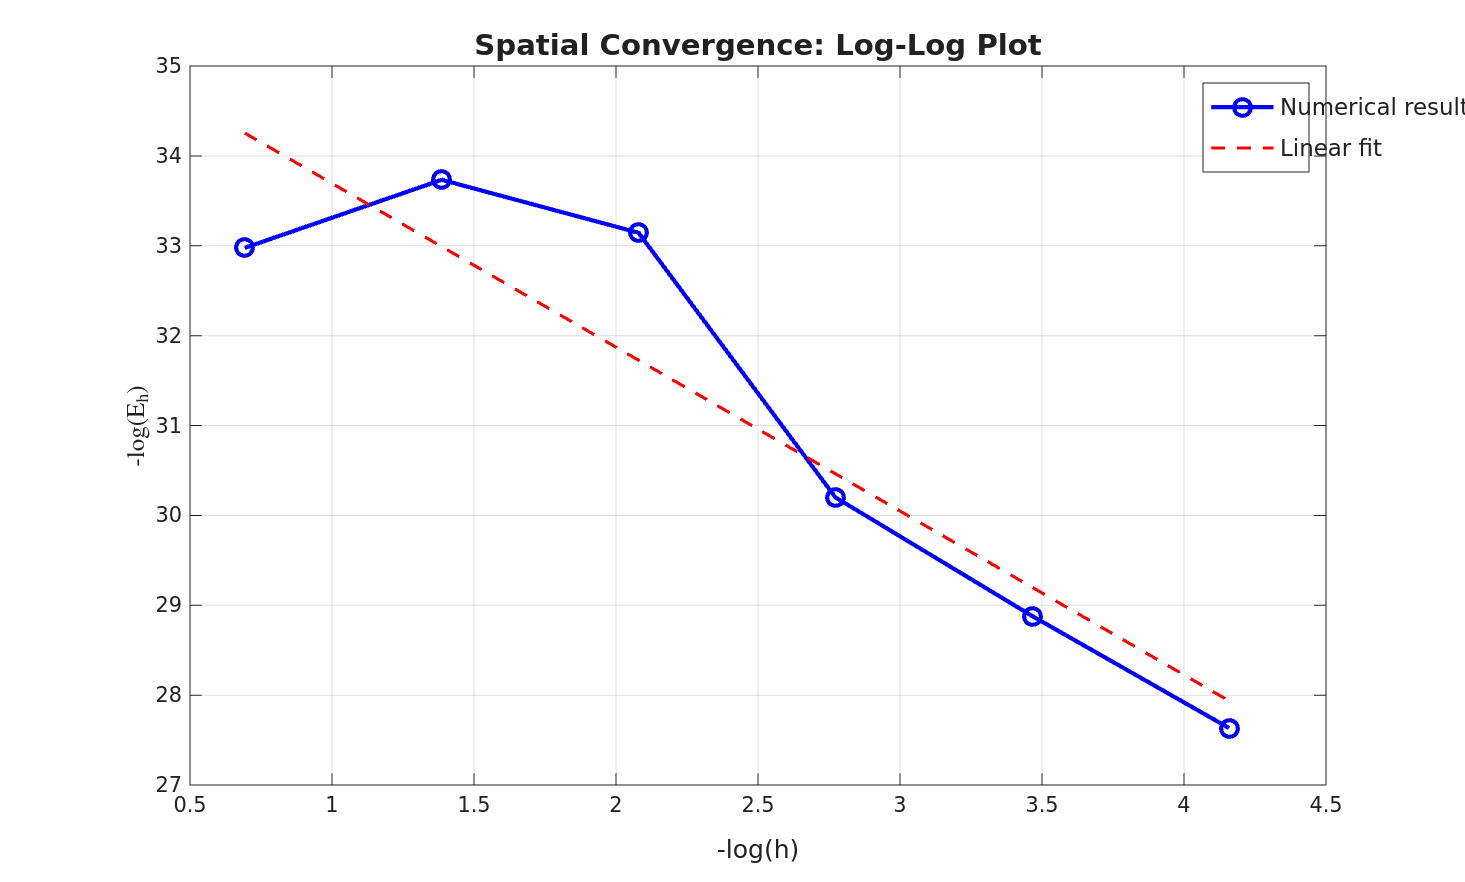
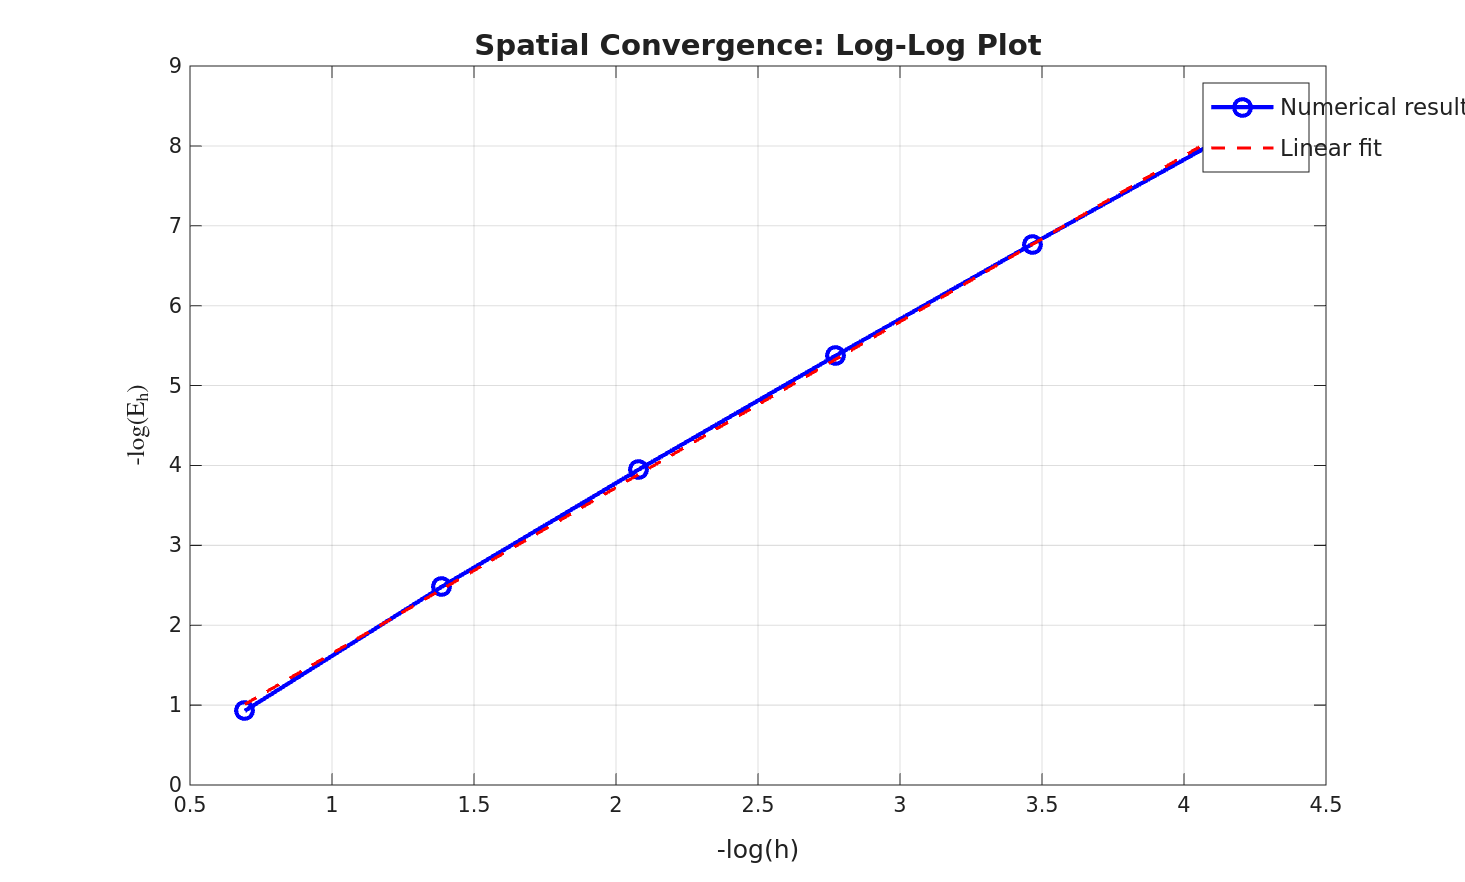
hat_function plotted is now a function

diff --git a/Project/Project.m b/Project/Project.m
@@ -55,8 +55,8 @@ function [X_grid, T, U_final, U_history] = FiniteElementMethod(varargin)
         % --- Neumann BCs: add boundary fluxes to RHS ---
         B = zeros(Nx, 1);
         h = X_grid(2) - X_grid(1);
-        B(1) = -a_func(0) * g_left(t_n);     % Left boundary
-        B(Nx) = a_func(L) * g_right(t_n);    % Right boundary
+        B(1) = -a_func(0) * g_left(t_n);      % Left boundary (outward normal is -x)
+        B(Nx) = a_func(L)  * g_right(t_n);   % Right boundary (outward normal is +x)
         % BC Interpretation:
         % g_left:  Heat flux at x=0. Positive value means heat leaves domain at left.
         % g_right: Heat flux at x=L. Positive value means heat leaves domain at right.
@@ -127,19 +127,24 @@ function phi = hat_function(X_grid, k)
         phi(idx2) = (xk_next - X_grid(idx2)) / h;
     end
 end
-% Plotting some hat functions for visualization
-figure;
-hold on;
-for k = 1:length(X_grid)
-    phi_k = hat_function(X_grid, k);
-    plot(X_grid, phi_k + (k-1)*0.5, 'LineWidth', 1.5); % Shift up for visibility
+
+%% Plot Hat Functions
+function plot_hat_functions(X_grid)
+    % Plotting some hat functions for visualization
+    figure;
+    hold on;
+    for k = 1:10:length(X_grid)
+        phi_k = hat_function(X_grid, k);
+        plot(X_grid, phi_k, 'LineWidth', 1.5);
+    end
+    xlabel('x');
+    ylabel('Hat Functions');
+    title('Plotting (Some) Hat Functions');
+    grid on;
+    saveas(gcf, fullfile('Project', 'hat_functions.png'));
+    close;
 end
-xlabel('x');
-ylabel('Hat Functions');
-title('Hat (Tent) Functions for 1D FEM');
-grid on;
-saveas(gcf, fullfile('Project', 'hat_functions.png'));
-close;  
+
 %% STEP 4: Stiffness Matrix Assembly
 function A = StiffnessAssembler1D(x, a, kappa)
     % Assemble stiffness matrix for 1D FEM
@@ -191,17 +196,31 @@ end
 
 %% STEP 7: Example Run (Test the solver)
 
-u_exact = @(x,t) x + t;
-f_func = @(x,t) 1; 
-g_left_func = @(t) 1;  
-g_right_func = @(t) 1; 
+
+% --- Manufactured Solution: u(x,t) = x^2 + t ---
+
+% Exact solution:
+u_exact = @(x,t) exp(-t) .* sin(pi * x);
+% Initial condition (t = 0)
+u0  = @(x) sin(pi * x); 
+% Source term f(x,t) derived from u_t - u_xx
+% u_t  = -exp(-t)*sin(pi*x)
+% u_xx = -pi^2 * exp(-t)*sin(pi*x)
+f_func       = @(x,t) (pi^2 - 1) * exp(-t) .* sin(pi * x);
+% Neumann Boundary Conditions (du/dx)
+% du/dx = pi * exp(-t) * cos(pi * x)
+g_left_func  = @(t) pi * exp(-t);  % at x=0, cos(0) = 1
+g_right_func = @(t) -pi * exp(-t); % at x=1, cos(pi) = -1
+
 
 X_grid = linspace(0, 1, 21);
+plot_hat_functions(X_grid);  % Plot hat functions for visualization
+
 [X, T, U_final, U_hist] = FiniteElementMethod(...
     'Nx', 50, ... % Number of spatial nodes
     'Nt', 100, ... % Number of time steps
     'Tf', 1, ... % Final time
-    'u0', @(x) u_exact(x, 0), ... % Initial condition
+    'u0', @(x) u0(x), ... % Initial condition
     'a_func', @(x) 1, ... % Diffusion coefficient
     'f_func', f_func, ... % f(x,t)
     'g_left', g_left_func, ... % Left Neumann BC
@@ -224,7 +243,7 @@ disp('Task 2 complete!!!!!!');
 
 
 % Fixed parameters
-tau = 5e-3;  % Fixed time step
+tau = 5e-5;  % Fixed time step(changed from 5e-3to 5e-5 for better accuracy)
 Tf = 1;    % Final time
 Nt = ceil(Tf / tau) + 1;  % Number of time steps
 
